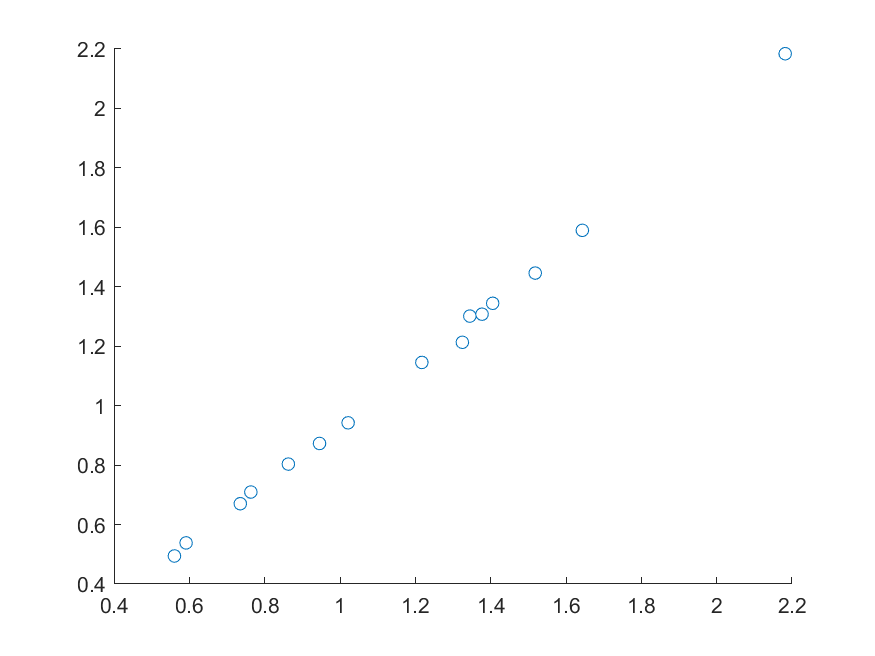
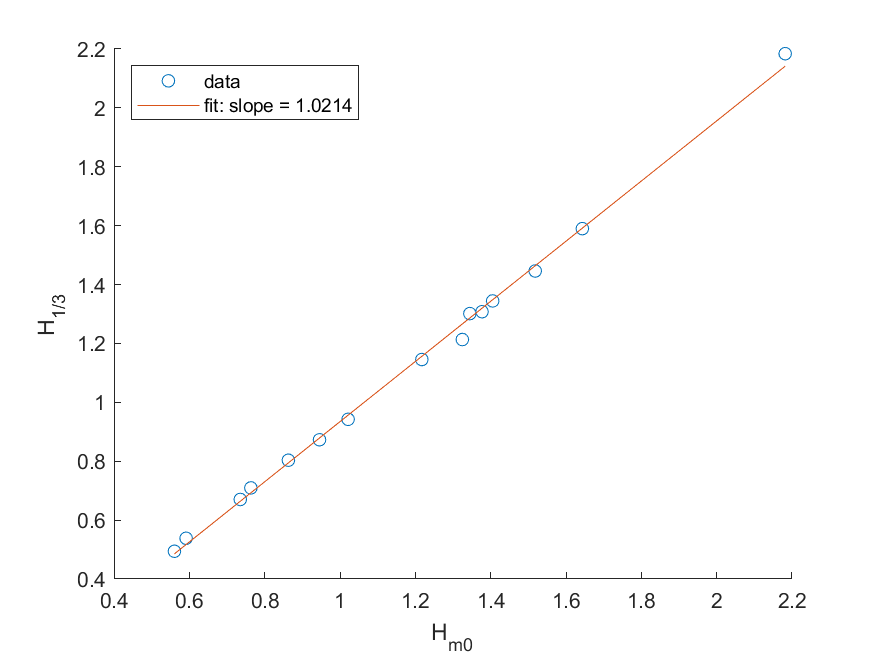
cleanup code

diff --git a/Chapter_02/B.m b/Chapter_02/B.m
@@ -1,14 +1,25 @@
+% Spectral analysis: Computation of density spectrum, part 2
+% Chapter 2.1
+% Script 2
+%
+% Comparing different locations during low tide
+% Most code (adapted) from chapter 2.1 script 1
 clear all
 close all
 
+
+%%% SETTINGS
 f_s = 2;
-
-lowtide = load('lowTide.txt');
-
-[n_s, n_p] = size(lowtide);
-names = ['P1'; 'P3'; 'P4'; 'P5'; 'P6'];
-
 blocks = [15];
+
+
+%%% READ DATA
+lowtide = load('lowTide.txt');
+names = {'P1'; 'P3'; 'P4'; 'P5'; 'P6'};
+
+
+%%% PREPARE CALCULATIONS
+[n_s, n_p] = size(lowtide);
 n_b = length(blocks);
 nfft = round(n_s ./ ((blocks + 1) / 2));
 
@@ -17,29 +28,34 @@ f = zeros(n_s, n_b, n_p);
 edf = zeros(1, n_b, n_p);
 conf95Interval = zeros(2, n_b, n_p);
 
-for j=1:1:n_p
-    for i=1:1:n_b
-        [S(1:nfft(i)/2+1,i,j), f(1:nfft(i)/2+1,i,j), edf(i,j), conf95Interval(:,i,j)] = VarianceDensitySpectrum(lowtide(:,j),nfft(i),f_s);
+
+%%% CALCULATIONS
+for j=1:1:n_p % loop over all positions
+    for i=1:1:n_b % loop over all block sizes
+        % NOTE: complex indices for S and f due to fact that not all results are of the same length
+        [S(1:nfft(i)/2+1,i,j), f(1:nfft(i)/2+1,i,j), edf(i,j), conf95Interval(:,i,j)] = VarianceDensitySpectrum(lowtide(:,j), nfft(i), f_s);
     end
 end
 
-for i=1:1:n_b
+
+%%% FIGURE
+for i=1:1:n_b % loop over all blocks
     figure;
-    sgtitle(['Variance density spectrum with ', num2str(blocks(i)), ' blocks'])
-    for j=1:1:n_p
+    sgtitle(['Variance density spectrum with ', num2str(blocks(i)), ' blocks']) % sgtitle --> title for figure, rather than for subplot
+    for j=1:1:n_p % loop over all locations
         subplot(n_p,1,j)
         hold on
-        plot(f(:,i,j), S(:,i,j))
-        % plot(f(:,i,j), S(:,i,j) * conf95Interval(1,i,j))
+        plot(f(:,i,j), S(:,i,j)) % plot center
+        % plot(f(:,i,j), S(:,i,j) * conf95Interval(1,i,j)) % plot confidence interval
         % plot(f(:,i,j), S(:,i,j) * conf95Interval(2,i,j))
         hold off
-        if j == n_p
+        if j == n_p % check if subplot is last subplot
             xlabel('Frequency [Hz]')
-        else
+        else % subplot is not last subplot
             set(gca, 'xticklabel', [])
         end
         ylabel('S [m^2 Hz^{-1}]')
-        legend(['Location ', names(j,:)])
+        legend(names(j))
         xlim([0, 0.7])
         ylim([0, 2])
     end

diff --git a/Chapter_02/A.m b/Chapter_02/A.m
@@ -1,13 +1,23 @@
+% Spectral analysis: Computation of density spectrum, part 1
+% Chapter 2.1
+% Script 1
+%
+% Comparing block sizes using one location during low tide
 clear all
 close all
 
-f_s = 2;
 
-lowtide = load('lowTide.txt');
+%%% SETTINGS
+f_s = 2; % sampling frequency
+blocks = [1, 3, 7, 15, 31]; % specify total number of blocks, including overlapping blocks
 
-[n_s, m_s] = size(lowtide);
 
-blocks = [1, 3, 7, 15, 31];
+%%% READ DATA
+lowtide = load('lowTide.txt'); % data
+
+
+%%% PREPARE CALCULATIONS
+[n_s, n_p] = size(lowtide); % number of samples and number of stations
 n_b = length(blocks);
 nfft = round(n_s ./ ((blocks + 1) / 2));
 
@@ -16,22 +26,27 @@ f = zeros(n_s, n_b);
 edf = zeros(1, n_b);
 conf95Interval = zeros(2, n_b);
 
-for i=1:1:n_b
-    [S(1:nfft(i)/2+1,i), f(1:nfft(i)/2+1,i), edf(i), conf95Interval(:,i)] = VarianceDensitySpectrum(lowtide(:,1),nfft(i),f_s);
+
+%%% CALCULATIONS
+for i=1:1:n_b % loop over all block sizes
+    % NOTE: complex indices for S and f due to fact that not all results are of the same length
+    [S(1:nfft(i)/2+1,i), f(1:nfft(i)/2+1,i), edf(i), conf95Interval(:,i)] = VarianceDensitySpectrum(lowtide(:,1), nfft(i), f_s);
 end
 
+
+%%% FIGURE
 figure;
 sgtitle('Variance density spectrum for P1')
-for i=1:1:n_b
-    subplot(n_b,1,i)
+for i=1:1:n_b % loop over all block lengths
+    subplot(n_b, 1, i)
     hold on
-    plot(f(:,i), S(:,i))
-    plot(f(:,i), S(:,i) * conf95Interval(1,i), '-r', 'LineWidth', 0.1)
+    plot(f(:,i), S(:,i)) % plot center
+    plot(f(:,i), S(:,i) * conf95Interval(1,i), '-r', 'LineWidth', 0.1) % plot confidence interval
     plot(f(:,i), S(:,i) * conf95Interval(2,i), '-r', 'LineWidth', 0.1)
     hold off
-    if i == n_b
+    if i == n_b % check if subplot is last subplot
         xlabel('Frequency [Hz]')
-    else
+    else % subplot is not last subplot
         set(gca, 'xticklabel', [])
     end
     xlim([0, 0.7])

diff --git a/Chapter_02/C.m b/Chapter_02/C.m
@@ -1,3 +1,8 @@
+% Spectral analysis: Computation of spectral wave characteristics
+% Chapter 2.2
+% Script 1
+%
+% Comparing block sizes using one location during low tide
 clear all
 close all
 
@@ -57,14 +62,23 @@ Hm0_ss = Hm0_all(:,:,3);
 Hm0_inf = Hm0_all(:,:,2);
 
 %%% FIGURE 1
+Hm0f = reshape(Hm0, n_t*n_p, 1);
+H13f = reshape(H13, n_t*n_p, 1);
+coeff = polyfit(Hm0f, H13f, 1);
 figure;
-scatter(reshape(Hm0, n_t*n_p, 1), reshape(H13, n_t*n_p, 1))
+hold on
+scatter(Hm0f, H13f)
+plot(Hm0f, polyval(coeff, Hm0f))
+hold off
+xlabel('H_{m0}')
+ylabel('H_{1/3}')
+legend('data', ['fit: slope = ', num2str(coeff(1))], 'Location', 'NorthWest')
 saveas(gcf, 'figures/2_2_spectral_compare.png')
 
 %%% FIGURE 2
 tide = 1;
 ylims = [2, 0.5, 2];
-x_left = 4400;
+x_left = 4350;
 x_right = max(x_p)+10;
 
 figure;
@@ -80,7 +94,7 @@ for k = 1:n_f
     ylim([0, ylims(k)])
     set(gca, 'xticklabel', [])
     ylabel([flabels(k), ' [m]'])
-    legend([flabels(k)])
+    legend([flabels(k)], 'Location', 'NorthWest')
 end
 
 subplot(n_f+1, 1, n_f+1)
@@ -95,4 +109,5 @@ xlabel('Distance from bouy [m]')
 ylabel('Height [m]')
 saveas(gcf, 'figures/2_2_spectral_low.png')
 
-save('data_spectral', 'Hm0', 'Hm0_ss', 'Hm0_inf')
+save('data_spectral', 'Hm0', 'Hm0_ss', 'Hm0_inf', 'Tp', 'H13')
+clear k ylims x_left x_right
